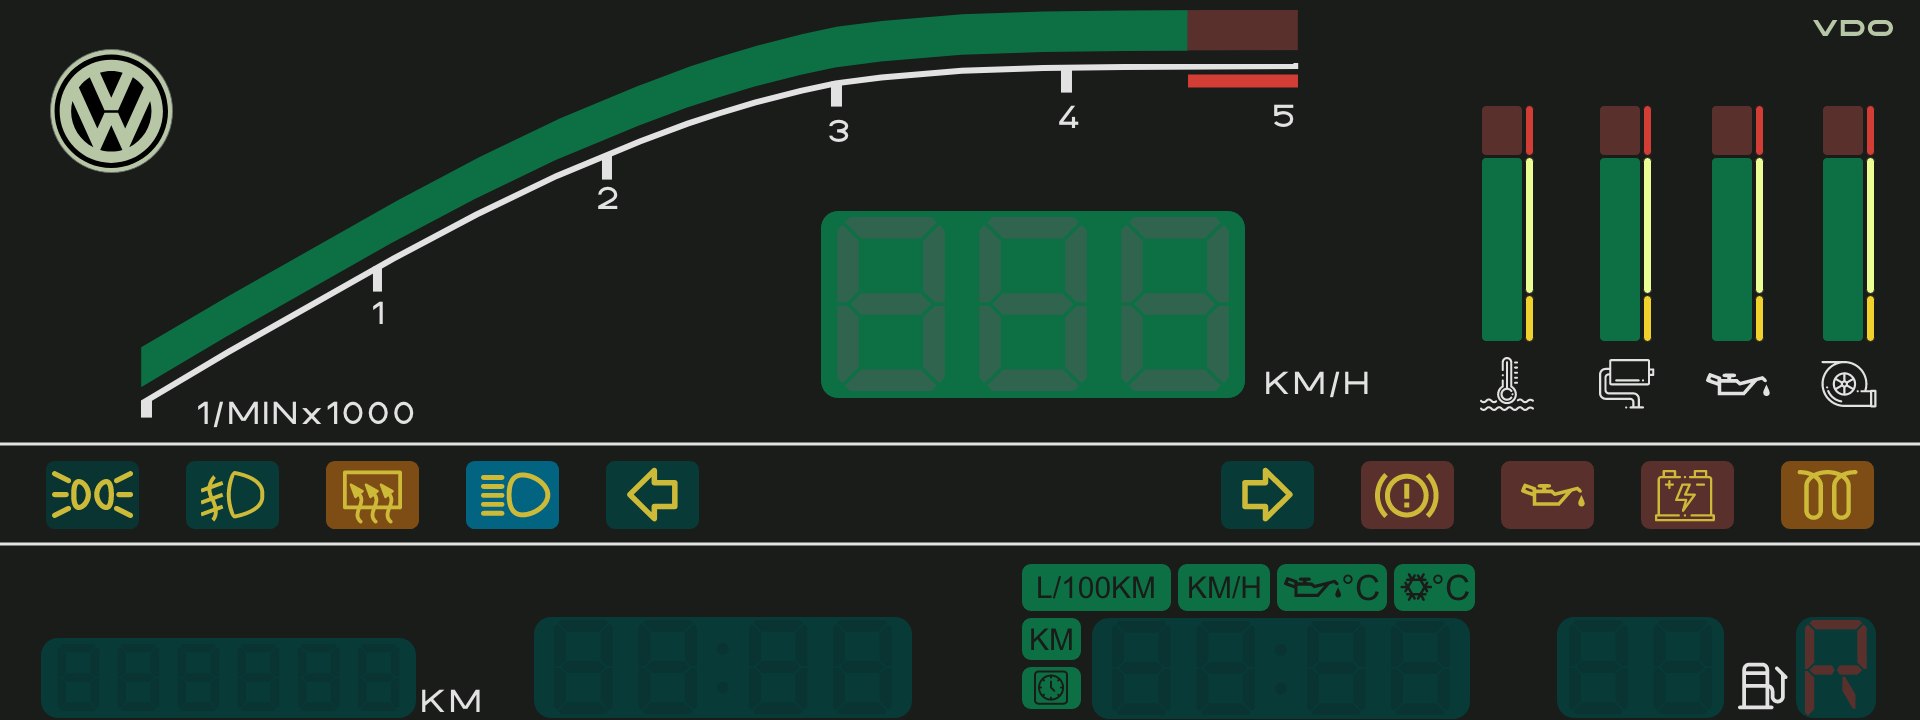
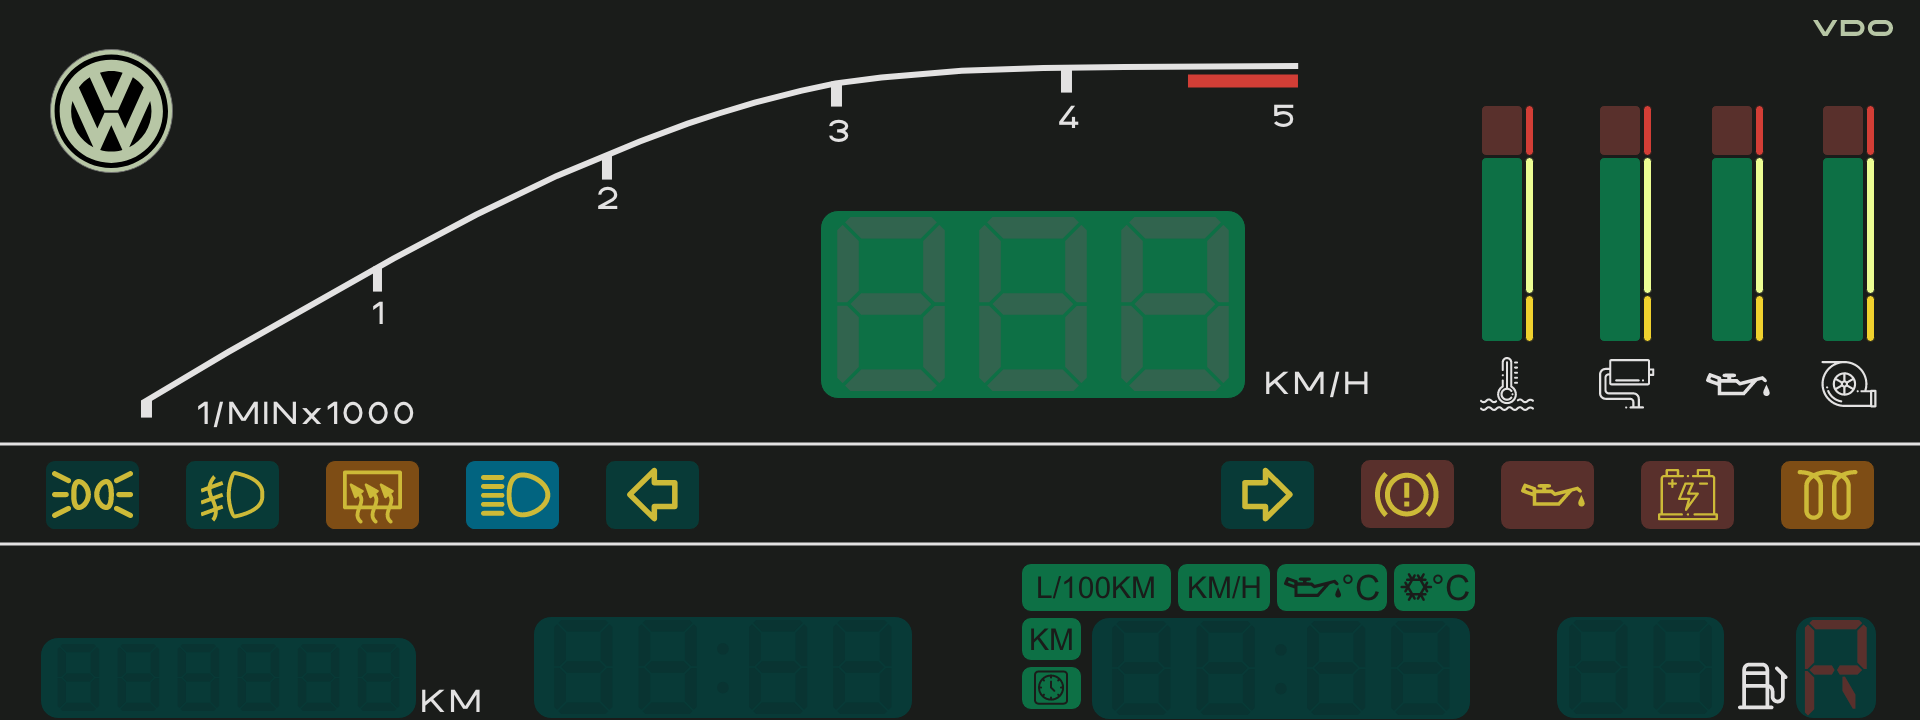
Catch up... some updated images etc for RPM

Changed region(s): [[0.0625, 0.0, 0.6875, 0.55], [0.8438, 0.6417, 0.9062, 0.7333], [0.7188, 0.6417, 0.75, 0.7333]]

diff --git a/main.py b/main.py
@@ -28,12 +28,14 @@ wiperstate = 0
 wiperplusstate = 0
 wiperminusstate = 0
 hornstate = 0
-fuelstate = 12
+rpmstate = 12
 engine_tempstate = 8
 odo_state = 1  # 1 = display odometer, 0 = display tripometer
 
 ''' Arduino Variables '''
 displayed_speed = "11"
+rpm_level_arduino = "0" #note: this value from pi is a raw dump of the adc from 0 to 1024 (630=emplty, 210=full)
+
 
 # Initialize the pygame
 pygame.init()
@@ -61,6 +63,9 @@ pygame.display.set_caption("Digifiz Dashboard v" + digifiz_ver)
 background = pygame.image.load("images/background.png")
 illuminationOn = pygame.image.load("images/illuminationOn.png").convert_alpha()
 illuminationOff = pygame.image.load("images/illuminationOff.png").convert_alpha()
+rpm200 = pygame.image.load("images/RPM 200.png").convert_alpha()
+
+
 
 '''Used to manage how fast the screen updates'''
 clock = pygame.time.Clock()
@@ -92,15 +97,24 @@ while running:
     screen.blit(speedtext, (962, 217))
     # Speed in singles
     font_speedunits = pygame.font.Font(font_path, font_size)
-    speedtext = font_speedunits.render("3", 0, indHL)
+    speedtext = font_speedunits.render("8", 0, indHL)
     screen.blit(speedtext, (1104, 217))
     # pygame.display.flip()
 
-    if illuminationState == 1:
-        screen.blit(illuminationOn, (43, 460))
+    # Testing the RPM gauge
+    if rpmstate == 12:
+        screen.blit(rpm200, (132, 4))
+
+
+
+
+    #testing the illumination button
+
+    if illuminationState == 0:
+        screen.blit(illuminationOn, (45, 460))
     #   GPIO.output(lightbarpin, False)
-    else:
-        screen.blit(illuminationOff, (43, 460))
+    #else:
+    #    screen.blit(illuminationOff, (45, 460))
     #   GPIO.output(lightbarpin, True)
     #   pygame.display.update()
 
